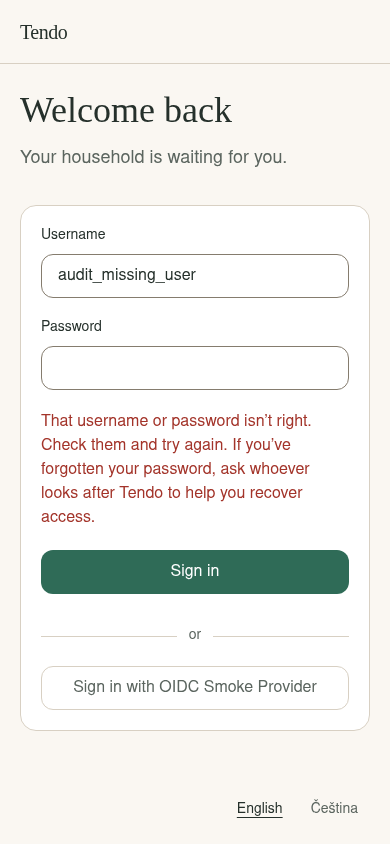
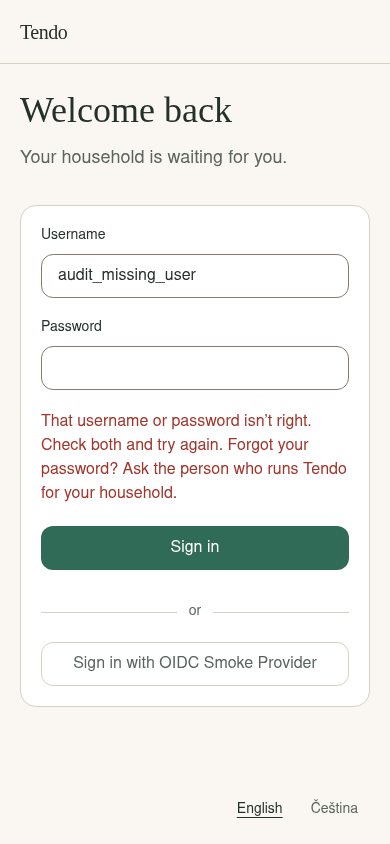
fix(v3-13): address independent review findings

Changed region(s): [[0.0923, 0.4929, 0.8923, 0.8318], [0.0923, 0.7701, 0.1231, 0.8318]]

diff --git a/frontend/src/features/auth/Oidc.test.tsx b/frontend/src/features/auth/Oidc.test.tsx
@@ -4,6 +4,8 @@ import userEvent from '@testing-library/user-event';
 import { afterEach, beforeEach, describe, expect, it, vi } from 'vitest';
 import { App } from '../../app/App';
 import { I18nProvider } from '../../i18n';
+import { en } from '../../i18n/en';
+import { cs } from '../../i18n/cs';
 import { HOUSEHOLD_ID, emptyHome, household, installFakeServer, json, session } from '../../test/fakeServer';
 import { browserNavigation } from './oidcApi';
 import { LoginScreen } from './LoginScreen';
@@ -50,7 +52,8 @@ describe('sign in with the configured provider', () => {
       ...emptyHome,
     });
     renderApp();
-    const noticeText = await screen.findByText(/Other sign-in options couldn’t be loaded\./);
+    const noticeText = await screen.findByText(en['login.oidc.loadError'], { exact: true });
+    expect(noticeText).toHaveTextContent('Password sign-in is still available.');
     const notice = noticeText.closest('[role="status"]');
     expect(notice).not.toBeNull();
     expect(notice).not.toHaveAttribute('role', 'alert');
@@ -126,7 +129,7 @@ describe('sign in with the configured provider', () => {
     expect(fake.requests.filter((request) => request.path === '/api/v1/auth/oidc')).toHaveLength(2);
     expect(retry).toHaveFocus();
     await act(async () => { release(problem(503)); });
-    expect(await screen.findByText(/Other sign-in options couldn’t be loaded\./)).toBeInTheDocument();
+    expect(await screen.findByText(en['login.oidc.loadError'], { exact: true })).toBeInTheDocument();
     expect(screen.getByRole('button', { name: 'Try again' })).toHaveFocus();
   });
 
@@ -167,14 +170,14 @@ describe('sign in with the configured provider', () => {
     await waitFor(() => expect(fake.requests.filter((request) => request.path === '/api/v1/auth/oidc')).toHaveLength(2));
     await act(async () => { release(json(200, { enabled: true, displayName: 'Stale Provider' })); });
     await waitFor(() => expect(screen.queryByRole('button', { name: /Sign in with/ })).not.toBeInTheDocument());
-    expect(screen.queryByText(/Other sign-in options couldn’t be loaded\./)).not.toBeInTheDocument();
+    expect(screen.queryByText(en['login.oidc.loadError'], { exact: true })).not.toBeInTheDocument();
   });
 
   it('renders the status recovery notice in Czech', async () => {
     localStorage.setItem('tendo.locale', 'cs');
     installFakeServer({ ...signedOut, 'GET /api/v1/auth/oidc': problem(503) });
     renderApp();
-    expect(await screen.findByText(/Další možnosti přihlášení se nepodařilo načíst\./)).toBeInTheDocument();
+    expect(await screen.findByText(cs['login.oidc.loadError'], { exact: true })).toBeInTheDocument();
     expect(screen.getByRole('button', { name: 'Zkusit znovu' })).toBeInTheDocument();
   });
 
@@ -229,6 +232,7 @@ describe('sign in with the configured provider', () => {
     renderApp();
     await userEvent.click(await screen.findByRole('button', { name: 'Sign in with Pocket ID' }));
     expect(await screen.findByRole('alert')).toHaveTextContent('Pocket ID can’t be reached right now. You can still use your password.');
+    expect(await screen.findByRole('alert')).toHaveTextContent('You can still use your password.');
     expect(screen.getByRole('button', { name: 'Sign in with Pocket ID' })).toHaveFocus();
     expect(assign).not.toHaveBeenCalled();
   });
@@ -244,7 +248,7 @@ describe('sign in with the configured provider', () => {
 describe('callback results', () => {
   it.each([
     ['identity_not_linked', 'This sign-in isn’t connected to a Tendo account yet. Sign in with your password, then connect it from Account.'],
-    ['cancelled', 'Sign-in was cancelled. You can try again or use your password.'],
+    ['cancelled', en['oidc.error.cancelled']],
     ['session_changed', 'You signed in or out in another tab while this was in progress. Please start again.'],
     ['<script>', 'Something went wrong with that sign-in. Please try again.'],
   ])('/login#oidcError=%s shows a calm notice and scrubs the fragment', async (code, message) => {

diff --git a/frontend/e2e/audit/auth.ts b/frontend/e2e/audit/auth.ts
@@ -57,7 +57,11 @@ export async function captureAuth(page: Page, browser: Browser, dir: string, cap
   await validationPage.getByRole('button', { name: en['onboarding.submit'], exact: true }).click();
   await expect(validationPage.getByRole('alert')).toBeVisible();
   await expectNoAxeViolations(validationPage, 'auth-onboarding-validation');
-  await shot(validationPage, dir, 'auth-onboarding-validation-en-390.png', capture, 390);
+  await capture(validationPage, join(dir, 'auth-onboarding-validation-en-390.png'), true);
+  await validationPage.evaluate(() => window.scrollTo(0, document.documentElement.scrollHeight));
+  await expect(validationPage.getByLabel(en['onboarding.timezone'], { exact: true })).toBeInViewport();
+  await expect(validationPage.getByRole('button', { name: en['onboarding.submit'], exact: true })).toBeInViewport();
+  await capture(validationPage, join(dir, 'auth-onboarding-validation-area-en-390.png'), false);
   await validationContext.close();
 
   const setupErrorContext = await browser.newContext({ reducedMotion: 'reduce', viewport: { width: 390, height: 844 } });
@@ -73,7 +77,12 @@ export async function captureAuth(page: Page, browser: Browser, dir: string, cap
   await setupError.getByLabel(en['onboarding.password'], { exact: true }).fill('synthetic-password-never-captured');
   await setupError.getByRole('button', { name: en['onboarding.submit'], exact: true }).click();
   await expect(setupError.getByRole('alert')).toBeVisible();
-  await shot(setupError, dir, 'auth-onboarding-server-error-en-390.png', capture, 390);
+  await capture(setupError, join(dir, 'auth-onboarding-server-error-en-390.png'), true);
+  await setupError.evaluate(() => window.scrollTo(0, 0));
+  await expect(setupError.getByRole('alert')).toBeVisible();
+  await expect(setupError.getByLabel(en['onboarding.timezone'], { exact: true })).toBeVisible();
+  await expect(setupError.getByRole('button', { name: en['onboarding.submit'], exact: true })).toBeVisible();
+  await capture(setupError, join(dir, 'auth-onboarding-server-error-area-en-390.png'), true);
   await setupErrorContext.close();
 
   for (const width of widths) {

diff --git a/frontend/src/app/App.routing.test.tsx b/frontend/src/app/App.routing.test.tsx
@@ -32,7 +32,8 @@ const signedInRoutes = (extra: Record<string, unknown> = {}) => ({
   [`GET ${base}/subjects/s-1`]: json(200, { id: 's-1', name: 'Test', type: 'person', linkedUserId: null, archived: false }, { ETag: '"subject"' }),
   [`GET ${base}/items/${validId}/completions`]: json(200, { items: [], nextCursor: null }),
   [`GET ${base}/members`]: json(200, { items: [], nextCursor: null }),
-  'GET /api/v1/auth/oidc': json(200, { enabled: false }), ...extra,
+  'GET /api/v1/auth/oidc': json(200, { enabled: false }),
+  'GET /api/v1/auth/setup': json(200, { required: false }), ...extra,
 });
 
 describe('App route characterization', () => {
@@ -112,7 +113,7 @@ describe('App route characterization', () => {
     }));
     renderApp();
     expect(await screen.findByLabelText('Password')).toBeVisible();
-    expect(screen.getByRole('status')).toHaveTextContent('You were signed out. Sign in again to continue. Your changes are safe.');
+    expect(screen.getByRole('status')).toHaveTextContent('You were signed out. Sign in again to continue. Saved changes are kept.');
     assertPendingStoresCleared();
   });
 
@@ -134,6 +135,20 @@ describe('App route characterization', () => {
     expect(screen.getByRole('link', { name: 'Go to your household' })).toHaveAttribute('href', '/');
     expect(screen.queryByRole('navigation', { name: 'Household navigation' })).not.toBeInTheDocument();
     expect(window.location.pathname).toBe('/unknown');
+  });
+
+  it('moves focus to the not-found heading after a signed-in popstate route transition', async () => {
+    window.history.replaceState(null, '', '/');
+    installFakeServer(signedInRoutes());
+    renderApp();
+    expect(await screen.findByRole('heading', { level: 1, name: 'Veselí' })).toBeVisible();
+
+    act(() => {
+      window.history.pushState(null, '', '/unknown');
+      window.dispatchEvent(new PopStateEvent('popstate'));
+    });
+
+    expect(await screen.findByRole('heading', { level: 1, name: 'We couldn’t find that page.' })).toHaveFocus();
   });
 
   it('shows a not-found recovery screen for signed-out visitors with a working sign-in link', async () => {

diff --git a/frontend/src/i18n/cs.ts b/frontend/src/i18n/cs.ts
@@ -61,12 +61,12 @@ export const cs: Record<MessageKey, string> = {
   'login.welcome': 'Vítejte zpět',
   'login.heading': 'Přihlášení do Tenda',
   'login.subtitle': 'Vaše domácnost už na vás čeká.',
-  'login.sessionEnded': 'Byli jste odhlášeni. Pro pokračování se znovu přihlaste. Vaše změny jsou v bezpečí.',
+  'login.sessionEnded': 'Byli jste odhlášeni. Pro pokračování se znovu přihlaste. Uložené změny zůstaly zachované.',
   'login.login': 'Uživatelské jméno',
   'login.password': 'Heslo',
   'login.submit': 'Přihlásit se',
   'login.submitting': 'Přihlašuji…',
-  'login.error.invalid': 'Uživatelské jméno nebo heslo nesouhlasí. Zkontrolujte je a zkuste to znovu. Pokud jste heslo zapomněli, požádejte správce Tenda o pomoc s obnovením přístupu.',
+  'login.error.invalid': 'Uživatelské jméno nebo heslo nesouhlasí. Zkontrolujte oboje a zkuste to znovu. Zapomněli jste heslo? Požádejte osobu, která spravuje Tendo ve vaší domácnosti.',
   'login.error.rateLimited': 'Příliš mnoho pokusů o přihlášení. Chvíli počkejte a zkuste to znovu.',
   'login.error.unavailable': 'S Tendem se teď nedaří spojit. Zkontrolujte připojení a zkuste to znovu. Váš účet je v bezpečí.',
   'login.or': 'nebo',
@@ -101,8 +101,6 @@ export const cs: Record<MessageKey, string> = {
   'account.signedInAs': 'Jste přihlášeni jako {login}.',
   'account.preferences.title': 'Jazyk',
   'account.preferences.body': 'Vyberte si jazyk, ve kterém chcete Tendo používat.',
-  'account.theme.title': 'Vzhled',
-  'account.theme.comingSoon': 'Možnost změnit vzhled bude brzy k dispozici.',
   'account.oidc.title': 'Přihlášení přes {provider}',
   'account.oidc.loading': 'Ověřuji…',
   'account.oidc.linked': 'Váš účet je propojený. Můžete se přihlásit přes {provider} nebo heslem.',

diff --git a/frontend/src/i18n/en.ts b/frontend/src/i18n/en.ts
@@ -58,12 +58,12 @@ export const en = {
   'login.welcome': 'Welcome back',
   'login.heading': 'Sign in to Tendo',
   'login.subtitle': 'Your household is waiting for you.',
-  'login.sessionEnded': 'You were signed out. Sign in again to continue. Your changes are safe.',
+  'login.sessionEnded': 'You were signed out. Sign in again to continue. Saved changes are kept.',
   'login.login': 'Username',
   'login.password': 'Password',
   'login.submit': 'Sign in',
   'login.submitting': 'Signing in…',
-  'login.error.invalid': 'That username or password isn’t right. Check them and try again. If you’ve forgotten your password, ask whoever looks after Tendo to help you recover access.',
+  'login.error.invalid': 'That username or password isn’t right. Check both and try again. Forgot your password? Ask the person who runs Tendo for your household.',
   'login.error.rateLimited': 'There have been too many sign-in attempts. Wait a little, then try again.',
   'login.error.unavailable': 'Tendo can’t be reached right now. Check your connection and try again; your account is safe.',
   'login.or': 'or',
@@ -98,8 +98,6 @@ export const en = {
   'account.signedInAs': 'You’re signed in as {login}.',
   'account.preferences.title': 'Language',
   'account.preferences.body': 'Choose the language you’d like to use in Tendo.',
-  'account.theme.title': 'Appearance',
-  'account.theme.comingSoon': 'Theme choices are coming soon.',
   'account.oidc.title': 'Sign-in with {provider}',
   'account.oidc.loading': 'Checking…',
   'account.oidc.linked': 'Your account is connected to {provider}. You can sign in with it or with your password.',

diff --git a/frontend/src/app/App.test.tsx b/frontend/src/app/App.test.tsx
@@ -59,7 +59,7 @@ describe('signed out', () => {
     await userEvent.type(await screen.findByLabelText('Username'), 'anna');
     await userEvent.type(screen.getByLabelText('Password'), 'wrong-password{Enter}');
     const alert = await screen.findByRole('alert');
-    expect(alert).toHaveTextContent('That username or password isn’t right. Check them and try again. If you’ve forgotten your password, ask whoever looks after Tendo to help you recover access.');
+    expect(alert).toHaveTextContent('That username or password isn’t right. Check both and try again. Forgot your password? Ask the person who runs Tendo for your household.');
     expect(screen.getByLabelText('Password')).toHaveValue('');
     expect(screen.getByLabelText('Password')).toHaveAttribute('aria-describedby', alert.id);
     expect(screen.getByLabelText('Password')).not.toHaveAttribute('aria-invalid', 'true');
@@ -329,7 +329,7 @@ describe('signed in', () => {
     renderApp();
     expect(await screen.findByLabelText('Password')).toBeVisible();
     expect(screen.getByRole('heading', { level: 1, name: 'Welcome back' })).toHaveFocus();
-    expect(screen.getByRole('status')).toHaveTextContent('You were signed out. Sign in again to continue. Your changes are safe.' );
+    expect(screen.getByRole('status')).toHaveTextContent('You were signed out. Sign in again to continue. Saved changes are kept.');
     expect(screen.queryByRole('heading', { name: 'Veselí' })).not.toBeInTheDocument();
 
     await userEvent.type(screen.getByLabelText('Username'), 'anna');

diff --git a/frontend/src/features/auth/OnboardingScreen.test.tsx b/frontend/src/features/auth/OnboardingScreen.test.tsx
@@ -47,6 +47,15 @@ afterEach(() => {
 });
 
 describe('onboarding', () => {
+  it('shows the timezone hint in Czech when the selected locale is cs-CZ', async () => {
+    localStorage.setItem('tendo.locale', 'cs');
+    stubTimezone('Europe/Prague');
+    installFakeServer(setupRequired);
+    renderApp();
+    expect(await screen.findByText((_, element) => element?.tagName.toLowerCase() === 'p' && element.textContent?.startsWith('Použije se pro data v domácnosti: Prague · ') === true)).toBeVisible();
+    expect(screen.queryByText(/Used for dates in your household:/)).not.toBeInTheDocument();
+  });
+
   it('shows the welcome form with a readable detected time zone and no login form or switcher', async () => {
     installFakeServer(setupRequired);
     renderApp();
@@ -57,6 +66,7 @@ describe('onboarding', () => {
     expect(screen.getByLabelText('Password')).toHaveAttribute('autocomplete', 'new-password');
     expect(screen.getByLabelText('Time zone')).toHaveValue('America/New_York');
     expect(screen.getByText(/Used for dates in your household: New York · /)).toBeVisible();
+    expect(screen.getByText('Used for dates in your household: New York · Eastern Time')).toBeVisible();
     expect(screen.getByRole('option', { name: /New York · / })).toHaveValue('America/New_York');
     expect(screen.getByRole('button', { name: 'Create household' })).toBeEnabled();
     expect(screen.queryByRole('button', { name: 'Sign in' })).not.toBeInTheDocument();

diff --git a/frontend/src/features/auth/AccountOidcSectionView.tsx b/frontend/src/features/auth/AccountOidcSectionView.tsx
@@ -17,7 +17,7 @@ export function AccountOidcSectionView({
       {section.kind === 'loading' ? <p role="status" className="mt-6 text-muted">{t('account.oidc.loading')}</p> : null}
       {section.kind === 'error' ? <p role="status" className="mt-6 text-muted">{t('account.oidc.loadError')}</p> : null}
       {section.kind === 'error' || (showRetry && section.kind === 'loading') ? (
-        <Button ref={retryRef} type="button" variant="quiet" className="mt-2" aria-disabled={section.kind === 'loading'} onClick={retry}>
+        <Button ref={retryRef} type="button" variant="quiet" className="mt-2" onClick={retry}>
           {t('app.error.retry')}
         </Button>
       ) : null}

diff --git a/frontend/src/features/auth/OnboardingScreen.tsx b/frontend/src/features/auth/OnboardingScreen.tsx
@@ -58,7 +58,7 @@ function TimezoneField({ value, onChange, invalid, zones, locale }: {
         {zones.map((zone) => <option key={zone} value={zone}>{formatTimezoneLabel(zone, locale)}</option>)}
       </select>
       <p id="onboarding-timezone-hint" className="text-sm text-muted">
-        {t('onboarding.timezone.hint', { timezone: formatTimezoneLabel(value, locale === 'cs' ? 'cs-CZ' : 'en') })}
+        {t('onboarding.timezone.hint', { timezone: formatTimezoneLabel(value, locale) })}
       </p>
     </div>
   );

diff --git a/frontend/src/features/auth/AccountPreferences.tsx b/frontend/src/features/auth/AccountPreferences.tsx
@@ -10,10 +10,6 @@ export function AccountPreferences() {
       <div className="mt-3 inline-flex rounded-xl border border-line bg-raised p-1">
         <LanguageSwitch />
       </div>
-      <section aria-labelledby="account-theme-heading" className="mt-8 border-t border-line pt-6">
-        <h2 id="account-theme-heading" className="font-display text-h2">{t('account.theme.title')}</h2>
-        <p className="mt-2 text-muted">{t('account.theme.comingSoon')}</p>
-      </section>
     </section>
   );
 }

diff --git a/frontend/src/app/SignedInApp.tsx b/frontend/src/app/SignedInApp.tsx
@@ -40,7 +40,7 @@ export function SignedInApp(props: Props) {
     account: navigation.openAccount,
   };
   if (route.kind === 'invite') return renderInvite(props);
-  if (route.kind === 'notFound') return <Layout><NotFoundScreen /></Layout>;
+  if (route.kind === 'notFound') return <ScreenTransitionContext value={props.transitioned}><Layout><NotFoundScreen /></Layout></ScreenTransitionContext>;
   return renderHouseholdScreens(props, householdId ?? null, navRoute, navigationActions);
 }
 

diff --git a/docs/design/v3-auth.md b/docs/design/v3-auth.md
@@ -6,14 +6,14 @@
 |---|---|---|
 | Setup | Give setup and owner account consistent field labels and separate them with two short household-first sections. Explain that the one-time code is in the private `.env` on the installation computer. | Replaces the technical install-wizard feel while accurately describing the documented source of the code. |
 | Time zone | Keep the detected IANA zone as the select value and submitted value; show a localized place name plus the browser's long generic time-zone name. | Makes the proposal legible without changing server semantics. |
-| Sign-in | Password form remains first and available during provider status failure. The form and copy are placed in the signed-out content measure, rather than pinned to a narrow strip in the wide desktop frame. | Sign-in must not depend on an optional provider, and desktop should use available measure intentionally. |
+| Sign-in | Password form remains first and available during provider status failure. The form is a single-column, approximately 28rem panel grouped with the intro; on wide desktop it is centered with a deliberate top offset rather than expanded into an arbitrary two-column card. | Sign-in must not depend on an optional provider, and desktop should use available measure intentionally. |
 | Authentication errors | Server-reported credential failure is announced in one error region without claiming both credentials are individually wrong. Explain password recovery through the person responsible for the installation. | Avoids false field-level blame and provides a safe next step. |
-| Account | Pair identity/provider status with in-page language selection; retain a clean appearance preference section without adding a nonfunctional theme control. | The language switch is reachable here; theme preference belongs to V3-14. |
+| Account | Pair identity/provider status with in-page language selection. Keep preferences limited to behavior that exists today. | The language switch is reachable here; no theme promise precedes its implementation in V3-14. |
 | Signed-out framing | No rail reservation. Setup and sign-in forms use responsive measure; boot failure and unknown route are centered recovery states. | Keeps signed-out pages purposeful on desktop without a fabricated marketing panel. |
 
 ## Screenshot critique
 
-Before evidence was regenerated from the detached `a9159e3` worktree; after evidence is from this branch. The indexed captures show the old mixed onboarding field hierarchy/raw IANA timezone, narrow login at desktop, wrong-password field coloring, and account language pointer. After captures include the requested widths for setup/login, representative phone and desktop Account states, callback/provider/service errors, and dark-token readiness. Visual review of the actual PNGs: the signin panel has clear priority, preserves a calm 1440px measure without a fake marketing column, and fits at 320px; long recovery guidance is dense but remains readable. Onboarding at 320px continues below the fold (expected for this multi-field first-run flow); its prose and field sequence remain legible. Account at 1440px uses a modest two-column layout; linked-provider states leave a quiet lower area, and the appearance entry explicitly explains that choices are coming rather than simulating a control. Error screens remain sparse by design. Account/OIDC and failure captures are synthetic browser-stubbed states, not real provider interactions; forced-dark captures check token readiness only.
+Before evidence was regenerated from the detached `a9159e3` worktree; after evidence is from this branch. The indexed captures show the old mixed onboarding field hierarchy/raw IANA timezone, narrow login at desktop, wrong-password field coloring, and account language pointer. After captures include the requested widths for setup/login, representative phone and desktop Account states, callback/provider/service errors, and dark-token readiness. Visual review of the actual PNGs: the signin panel has clear priority, preserves a calm 1440px measure without a fake marketing column, and fits at 320px; long recovery guidance is dense but remains readable. Onboarding at 320px continues below the fold (expected for this multi-field first-run flow); its prose and field sequence remain legible. Timezone city text is derived from the IANA identifier and is not localized (for example, Prague stays “Prague” in Czech); the timezone name follows the selected locale. Account at 1440px uses a modest two-column layout; linked-provider states leave a quiet lower area. The household-less account retains the small inline navigation bar and aligns its content with the shared shell rather than reserving an empty rail. Error screens remain sparse by design. Account/OIDC and failure captures are synthetic browser-stubbed states, not real provider interactions; forced-dark captures check token readiness only. The updated 1440px login capture shows a narrow, vertically composed form instead of the previous split-field card; the 320px onboarding and 390px Czech login/account captures were also regenerated and reviewed.
 
 ## Accessibility and behavior
 
@@ -22,12 +22,12 @@ Before evidence was regenerated from the detached `a9159e3` worktree; after evid
 - Wrong-password feedback is an alert and does not mark either login field individually invalid. Provider errors keep password sign-in available.
 - Language picker is a real in-page `LanguageSwitch` and updates/persists locale.
 - OIDC allowlist parsing and fragment scrubbing remain unchanged.
-- Unknown signed-out routes show a recovery screen. Existing malformed item-path behavior is preserved.
+- Unknown routes, including multi-segment item paths such as `/items/a/b`, show a not-found recovery screen. A malformed single-segment item ID retains its invalid-item handling.
 - Full frontend Vitest suites passed. The opt-in production UX audit completed successfully and captured login, onboarding, account, OIDC, boot and not-found states. The full production E2E smoke suite also passed after updating affected route, language-selector, and journey expectations; this includes the serial journey and screen-reader audit projects.
 
 ## Evidence
 
-Curated production-build before/after screenshots and honest per-state critique are indexed in [v3-auth/CAPTURES.md](v3-auth/CAPTURES.md). The opt-in production audit completed with `E2E_EXIT=0` and wrote 41 `auth-*.png` captures plus the wider audit metrics under `/tmp/opencode/v313-auth-after`; these captures are curated in the docs directory. The command was `source ~/.config/tendo-test/env && TENDO_UX_AUDIT_DIR=/tmp/opencode/v313-auth-after bash scripts/dev-exec.sh -- bash scripts/e2e-smoke.sh`; log: `/tmp/opencode/v313-auth-logs/after-e2e.log`. The baseline production audit completed at detached `a9159e3`; its curated auth captures are under `v3-auth/before/`. The full production smoke was run with `source ~/.config/tendo-test/env && bash scripts/dev-exec.sh -- bash scripts/e2e-smoke.sh`; log: `/tmp/opencode/v313-auth-logs/full-e2e.log`, `E2E_EXIT=0` (native production-binary e2e passed; 55 Playwright tests across the serial journey and browser primitives, plus the separate screen-reader audit project). Lint, typecheck, and Vitest also passed.
+Curated production-build before/after screenshots and honest per-state critique are indexed in [v3-auth/CAPTURES.md](v3-auth/CAPTURES.md). The opt-in production audit completed with `E2E_EXIT=0` and wrote 41 `auth-*.png` captures plus the wider audit metrics under `/tmp/opencode/v313-auth-after-followup`; changed captures are curated in the docs directory. The follow-up command was `source ~/.config/tendo-test/env && TENDO_UX_AUDIT_DIR=/tmp/opencode/v313-auth-after-followup bash scripts/dev-exec.sh -- bash scripts/e2e-smoke.sh`; log: `/tmp/opencode/v313-auth-logs/followup-e2e.log`. The baseline production audit completed at detached `a9159e3`; its curated auth captures are under `v3-auth/before/`. The requested follow-up full production smoke (including UX audit) ran with `source ~/.config/tendo-test/env && TENDO_UX_AUDIT_DIR=/tmp/opencode/v313-auth-after-followup bash scripts/dev-exec.sh -- bash scripts/e2e-smoke.sh`; log: `/tmp/opencode/v313-auth-logs/followup-e2e.log`, `E2E_EXIT=0`. This includes the serial journey, browser primitives, screen-reader project, and UX audit. Lint, typecheck, and Vitest also passed.
 
 ## Not done here
 
